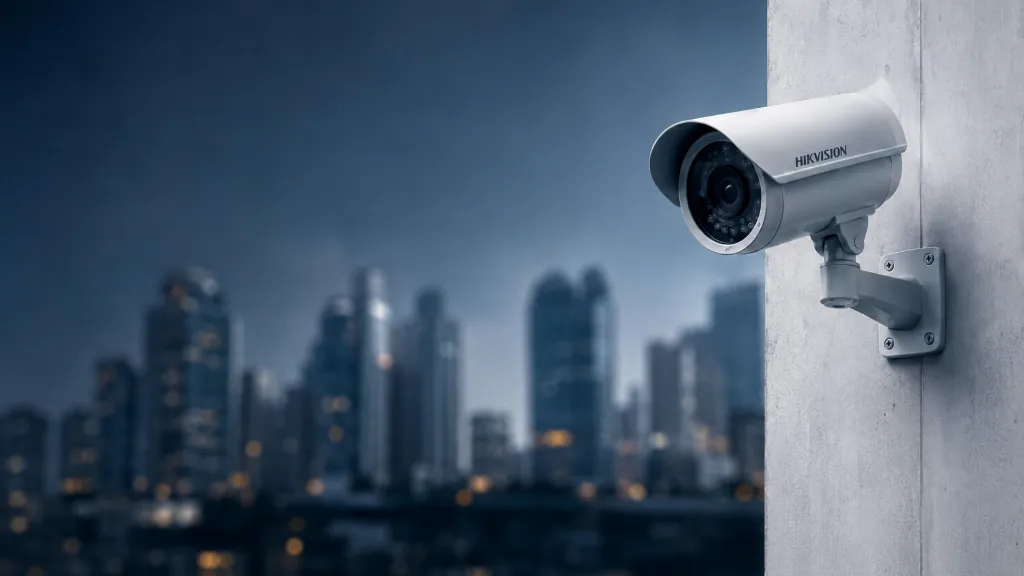
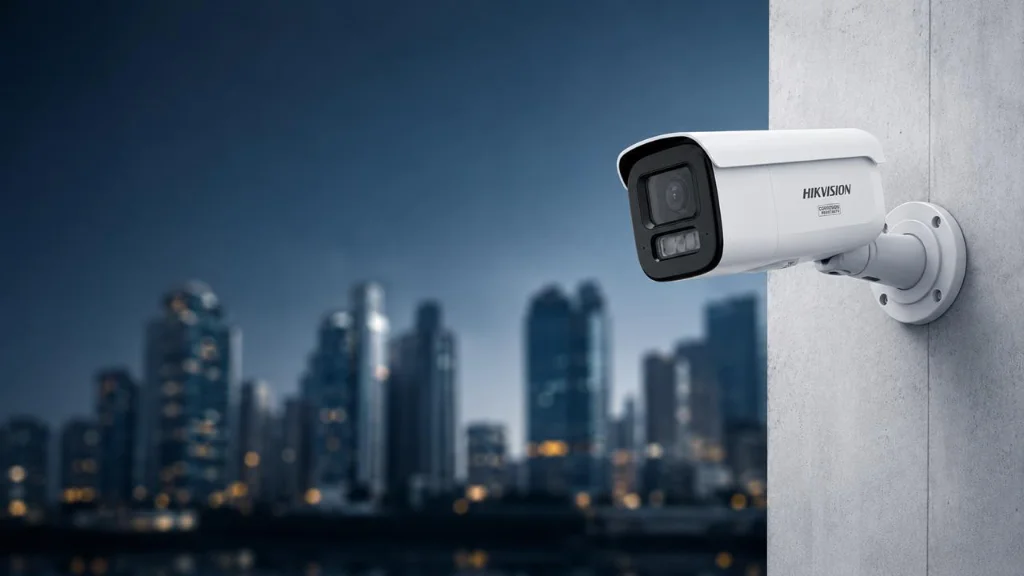
s

diff --git a/components/home/Hero.tsx b/components/home/Hero.tsx
@@ -8,7 +8,7 @@ export function Hero({ content: _content }: { content?: unknown }) {
       {/* Background Image & Overlay */}
       <div className="absolute inset-0 z-0">
         <Image
-          src="/images/primesec-hero-cctv-v2.webp"
+          src="/images/primesec-hero-cctv-v3.png"
           alt="PrimeSec Güvenlik Sistemleri Arka Plan"
           fill
           className="object-cover object-right lg:object-center"
